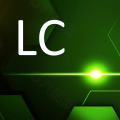
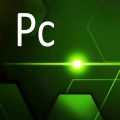
3

diff --git a/MainWindow.xaml b/MainWindow.xaml
@@ -8,7 +8,7 @@
         xmlns:wf="clr-namespace:System.Windows.Forms;assembly=System.Windows.Forms"
         xmlns:wfi ="clr-namespace:System.Windows.Forms.Integration;assembly=WindowsFormsIntegration"
         WindowStartupLocation="CenterScreen" WindowState="Maximized"
-        Title="Light Conductor" MinHeight="1000" MinWidth="1800" Icon="Resources/logo.ico" Background="#FF2D2D30">
+        Title="Photon Conductor" MinHeight="1000" MinWidth="1800" Icon="Resources/logo.ico" Background="#FF2D2D30">
 
 
     <TabControl HorizontalContentAlignment="Stretch" SelectionChanged="TabControl_SelectionChanged" Background="#FF323232">
